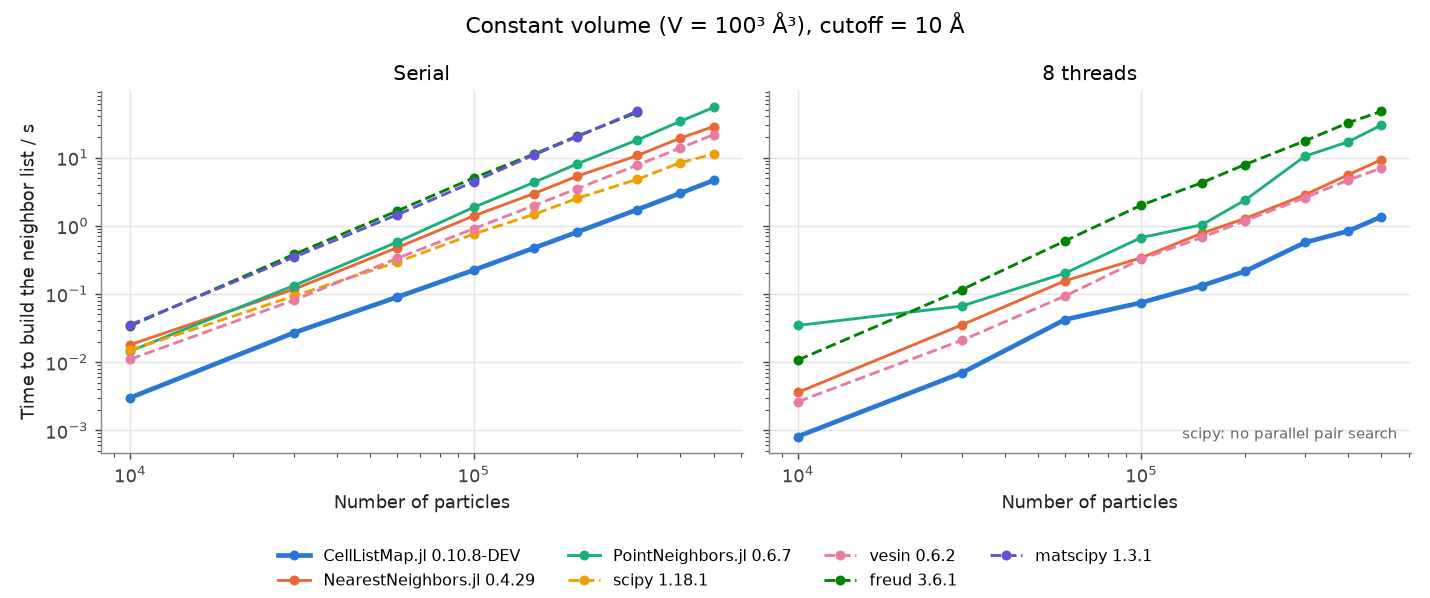
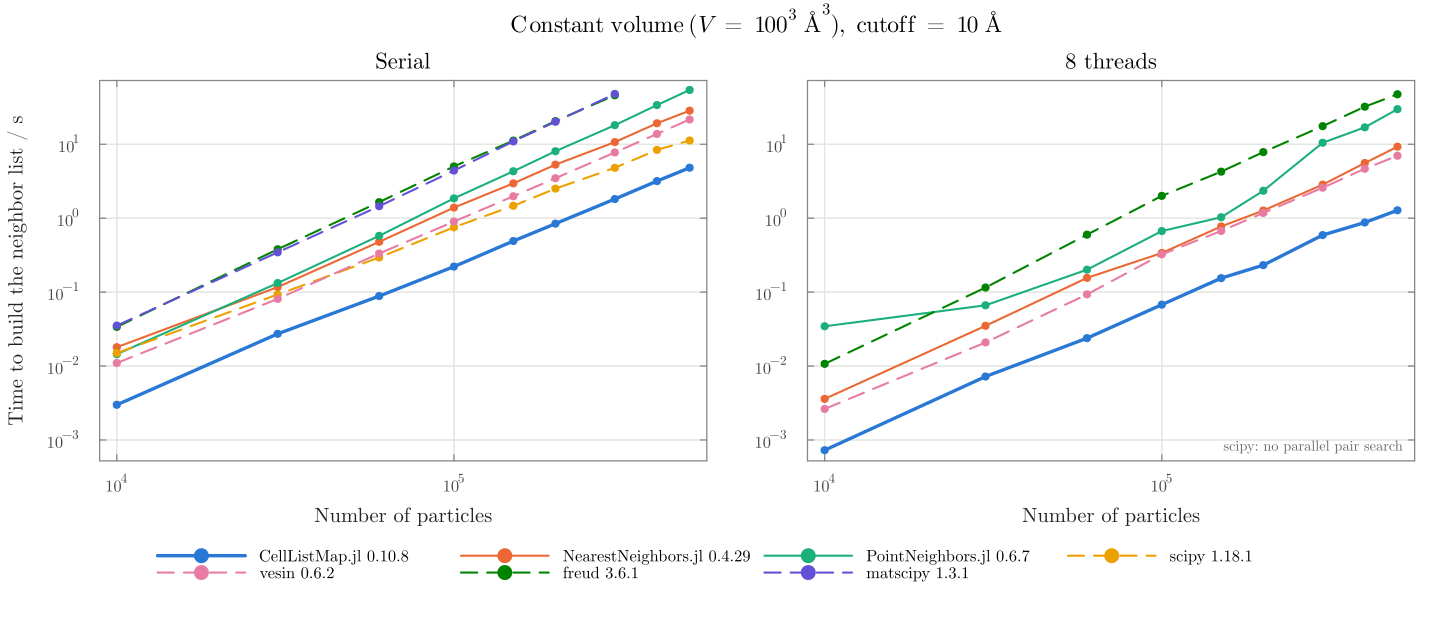
Update neighbor list benchmarks to CellListMap 0.10.8 and plot with Plots.jl
Rerun the CellListMap.jl entries of the neighbor list comparison with the
0.10.8 release (serial and 8 threads, same pinned cores); other packages'
results are unchanged. The serial CellListMap run now uses the same random
coordinates as the other packages (pair counts match exactly).

Replace plot.py with plot.jl (Plots.jl/GR, box frames, Computer Modern),
regenerate b_nl_cd.png and b_nl_cv.png, and update the README speedups at
10^6 particles (3.2x vs. scipy serial, 4.5x vs. vesin with 8 threads).

diff --git a/benchmarks/neighborlist_comparison/README.md b/benchmarks/neighborlist_comparison/README.md
@@ -10,12 +10,13 @@ scipy, vesin, freud and matscipy, used for the plots in the main README.
   exceeds 60 s.
 - `run_all.sh <python> <julia_project>`: runs everything, pinned to 8 physical cores
   (`taskset -c 0,2,...,14`; adjust `CORES` to your machine).
-- `plot.py`: writes `docs/src/assets/b_nl_cd.png` and `docs/src/assets/b_nl_cv.png`.
+- `plot.jl`: writes `docs/src/assets/b_nl_cd.png` and `docs/src/assets/b_nl_cv.png`.
 
 Environments used:
 
 ```bash
 python -m venv pyenv
-./pyenv/bin/pip install numpy scipy freud-analysis vesin matscipy matplotlib
-julia --project=jlenv -e 'using Pkg; Pkg.develop(path="../.."); Pkg.add(["NearestNeighbors","PointNeighbors","StaticArrays","JSON3"])'
+./pyenv/bin/pip install numpy scipy freud-analysis vesin matscipy
+julia --project=jlenv -e 'using Pkg; Pkg.develop(path="../.."); Pkg.add(["NearestNeighbors","PointNeighbors","StaticArrays","JSON3","Plots"])'
+julia --project=jlenv plot.jl
 ```

diff --git a/README.md b/README.md
@@ -55,7 +55,7 @@ Time required to compute the list of all pairs of particles within a cutoff (the
 
 <img src="docs/src/assets/b_nl_cv.png">
 
-At the density of water and with 10⁶ particles, CellListMap.jl was about 3.4 times faster than the fastest serial alternative (scipy), and about 5 times faster than the fastest parallel alternative (vesin).
+At the density of water and with 10⁶ particles, CellListMap.jl was about 3.2 times faster than the fastest serial alternative (scipy), and about 4.5 times faster than the fastest parallel alternative (vesin).
 
 The benchmark compares the packages in the terrain for which cell lists are designed, so the following caveats apply:
 
